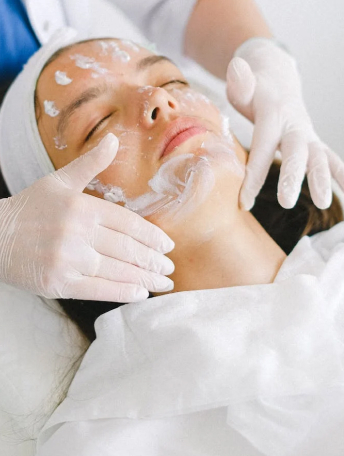
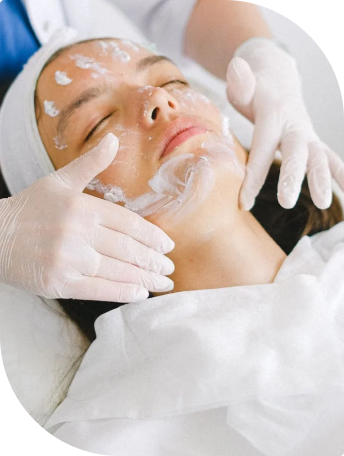
add images to slider and values into alt attribute

Changed region(s): [[0.6977, 0.0, 1.0, 0.2456], [0.0, 0.7675, 0.2907, 1.0]]

diff --git a/index.html b/index.html
@@ -46,7 +46,6 @@
       <section class="hero" id="hero">
         <div class="container">
           <div class="hero_content">
-            <!-- <img src="images/background_img.jpg" alt="" /> -->
             <p class="hero__preview-title">Косметологічна клініка</p>
             <h1 class="hero__title">beauty zone</h1>
             <div class="order_block">
@@ -101,21 +100,33 @@
           </h2>
           <div class="why-us__itms">
             <div class="item">
-              <img class="item-img" src="./images/icon-science.svg" alt="" />
+              <img
+                class="item-img"
+                src="./images/icon-science.svg"
+                alt="icon-science"
+              />
               <p>
                 Всі наші косметологи мають вищу медичну освіту та стаж роботи
                 від 5 років
               </p>
             </div>
             <div class="item">
-              <img class="item-img" src="./images/icon_two.svg" alt="" />
+              <img
+                class="item-img"
+                src="./images/icon_two.svg"
+                alt="icon_two"
+              />
               <p>
                 Використовуємо тільки професійне обладнання та косметику,
                 перевірену часом
               </p>
             </div>
             <div class="item">
-              <img class="item-img" src="./images/icon_crown.svg" alt="" />
+              <img
+                class="item-img"
+                src="./images/icon_crown.svg"
+                alt="icon_crown"
+              />
               <p>
                 Наша мета - підкреслити переваги та приховати недоліки, а не
                 переробити
@@ -139,19 +150,19 @@
             <ul class="procedures_items">
               <li class="card">
                 <article class="procedures_item">
-                  <!-- <img src="./images/slider_1.jpg" alt="" /> -->
+                  <img src="./images/slider_1.jpg" alt="slider_1" />
                   <p class="procedure_item-text">Маски <br />для обличчя</p>
                 </article>
               </li>
               <li class="card">
                 <article class="procedures_item">
-                  <!-- <img src="./images/slider_2.jpg" alt="" /> -->
+                  <img src="./images/slider_2.jpg" alt="slider_2" />
                   <p class="procedure_item-text">Ін'єкції <br />для обличчя</p>
                 </article>
               </li>
               <li class="card">
                 <article class="procedures_item">
-                  <!-- <img src="./images/slider_3.jpg" alt="" /> -->
+                  <img src="./images/slider_3.jpg" alt="slider_3" />
                   <p class="procedure_item-text">Очищення <br />обличчя</p>
                 </article>
               </li>
@@ -250,7 +261,7 @@
         <div class="footer_container">
           <nav class="footer_nav">
             <div class="footer_logo">
-              <a href="/"><img src="./images/logo.svg" alt="" /></a>
+              <a href="/"><img src="./images/logo.svg" alt="logo" /></a>
             </div>
             <div class="footer_menu">
               <ul class="">
@@ -304,8 +315,6 @@
             </div>
           </address>
         </div>
-
-        <!-- <img src="images/footer.jpg" alt="" /> -->
       </div>
     </footer>
 

diff --git a/css/style.css b/css/style.css
@@ -388,13 +388,22 @@ p {
   text-align: center;
 }
 
+.procedures_item img {
+  position: absolute;
+  top: 0;
+  left: 0;
+  width: 100%;
+  height: 100%;
+  z-index: -1;
+  border-radius: 4px 120px;
+}
+
 .procedure_item-text {
   max-width: 150px;
   display: block;
 }
 
 .card {
-  border: 1px solid black; /*remove*/
   border-radius: 4px 120px;
   background-image: linear-gradient(
     180deg,
@@ -402,9 +411,9 @@ p {
     rgba(1, 28, 68, 0.73) 84.61%,
     var(--color-brand-durk) 101.39%
   );
-  /* flex-shrink: 0; */
   flex-basis: calc((100% - 32px) / 3);
   padding: 372px 77px 32px 115px;
+  position: relative;
 }
 
 /* slider */
